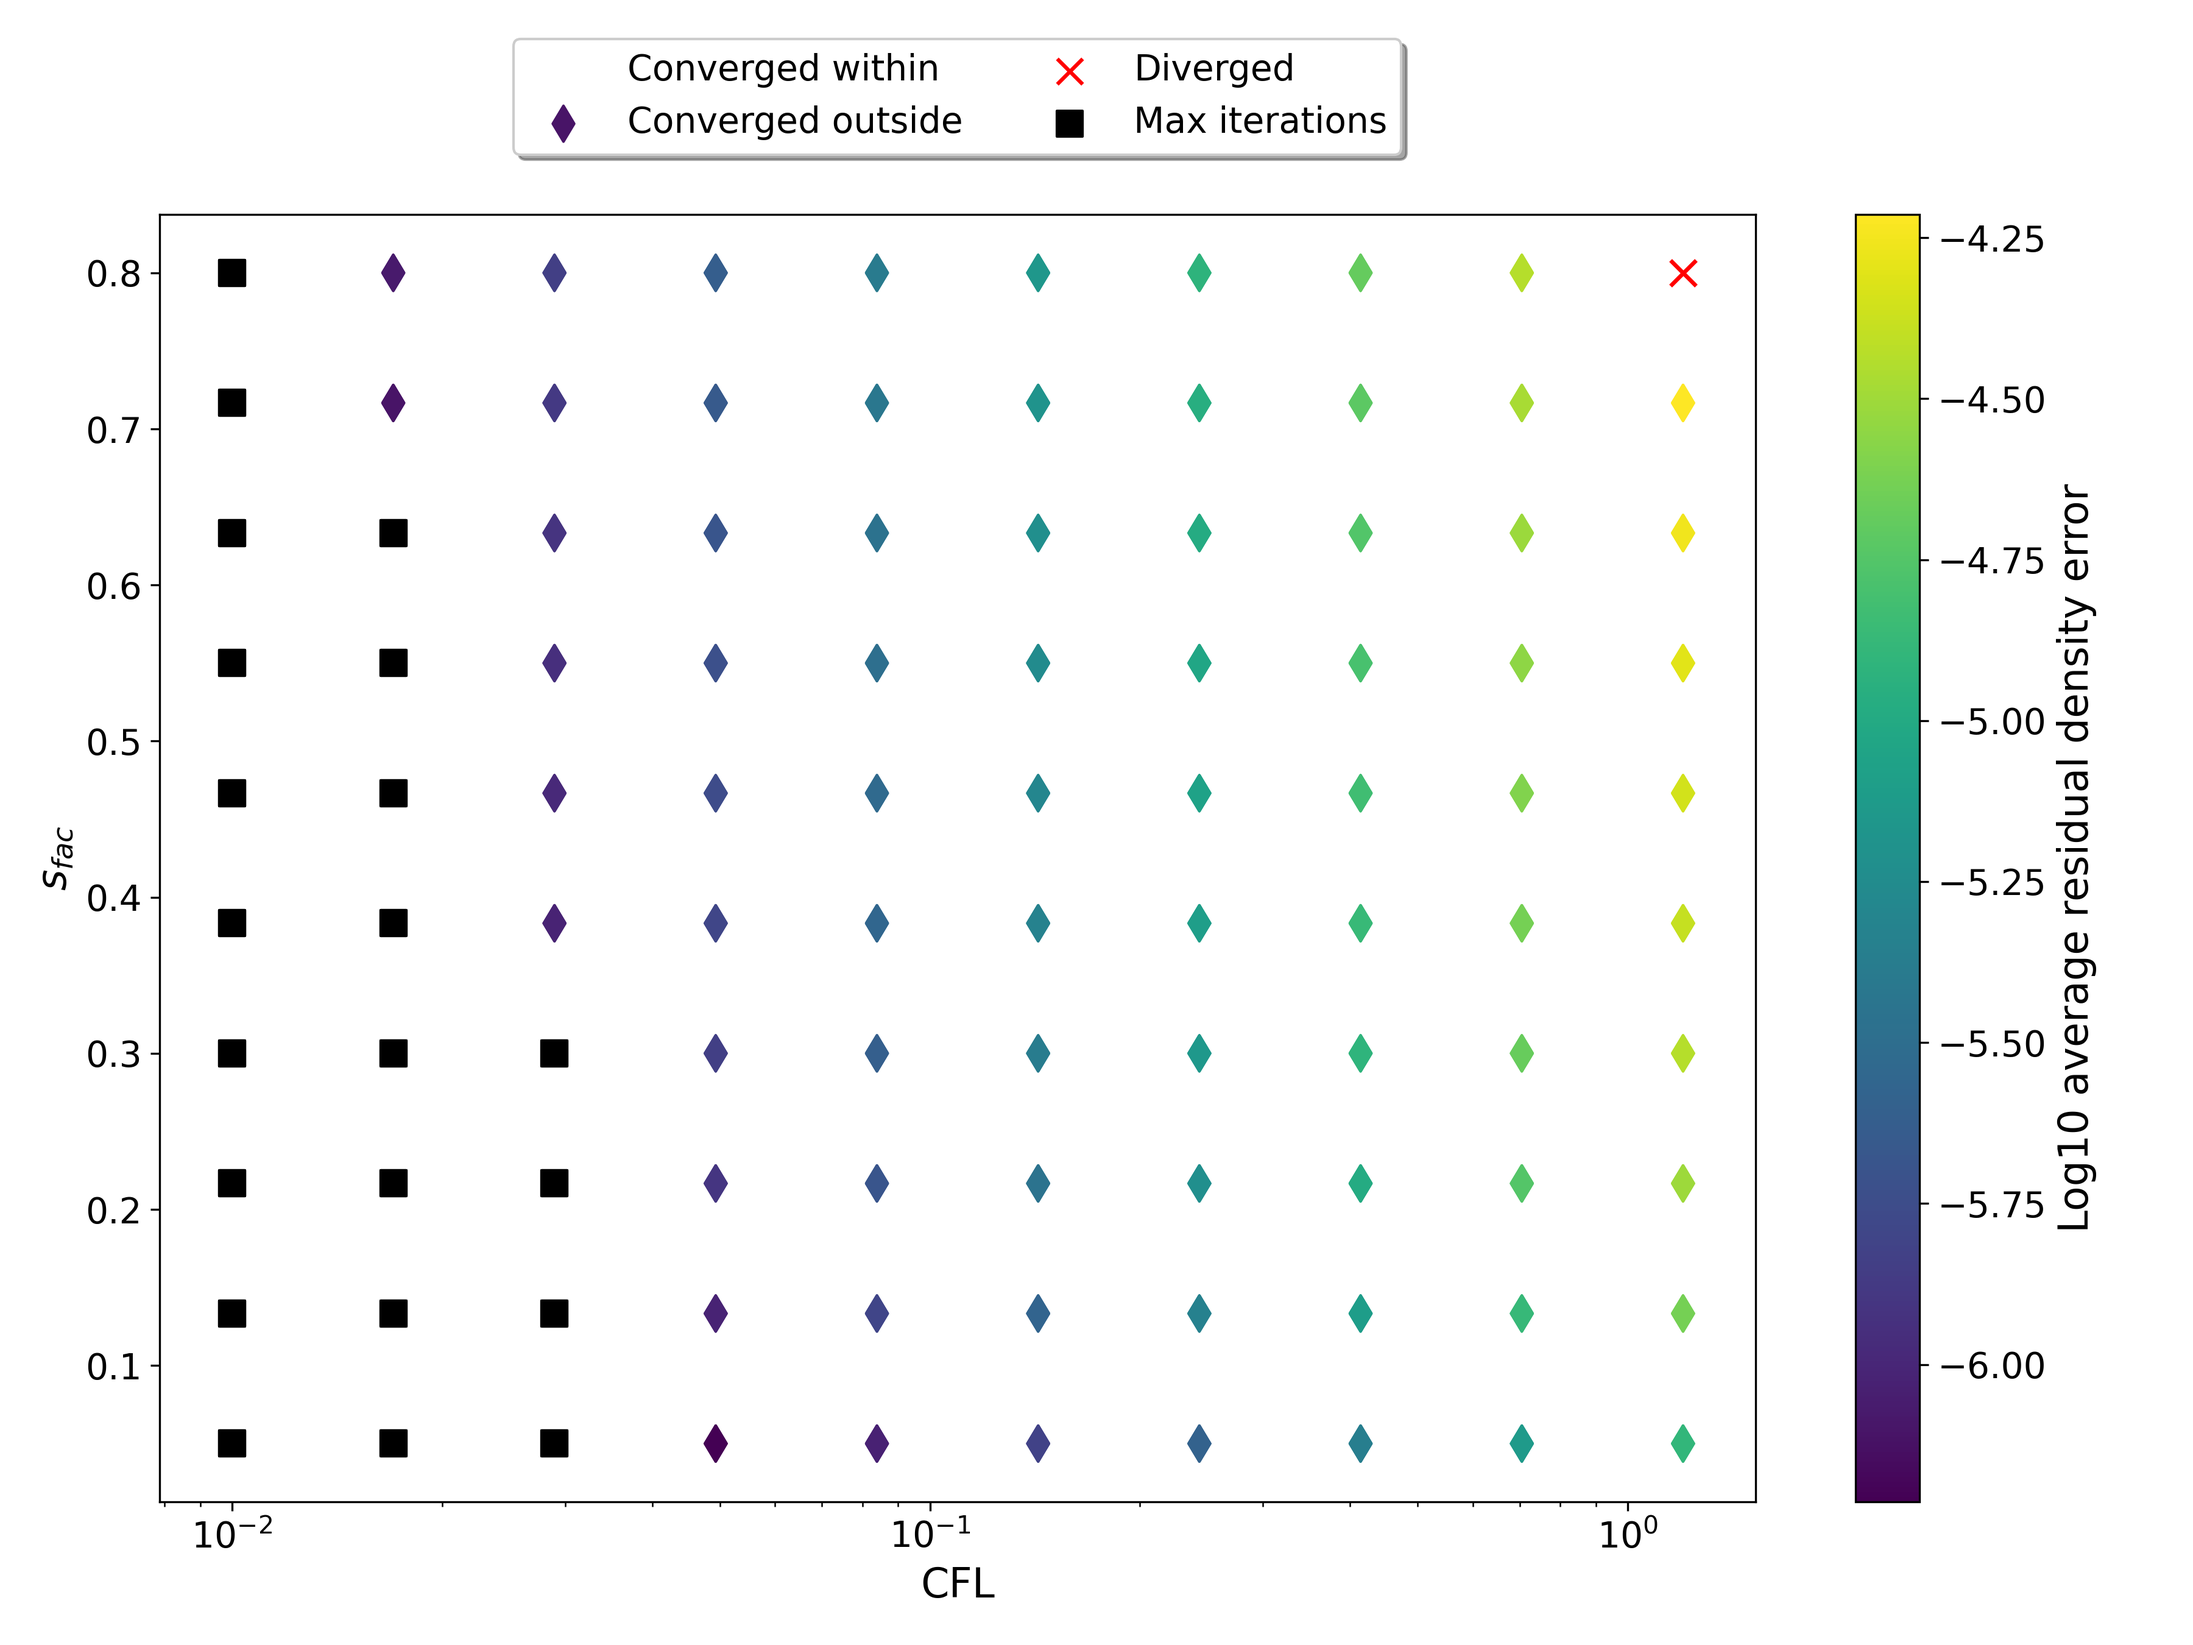
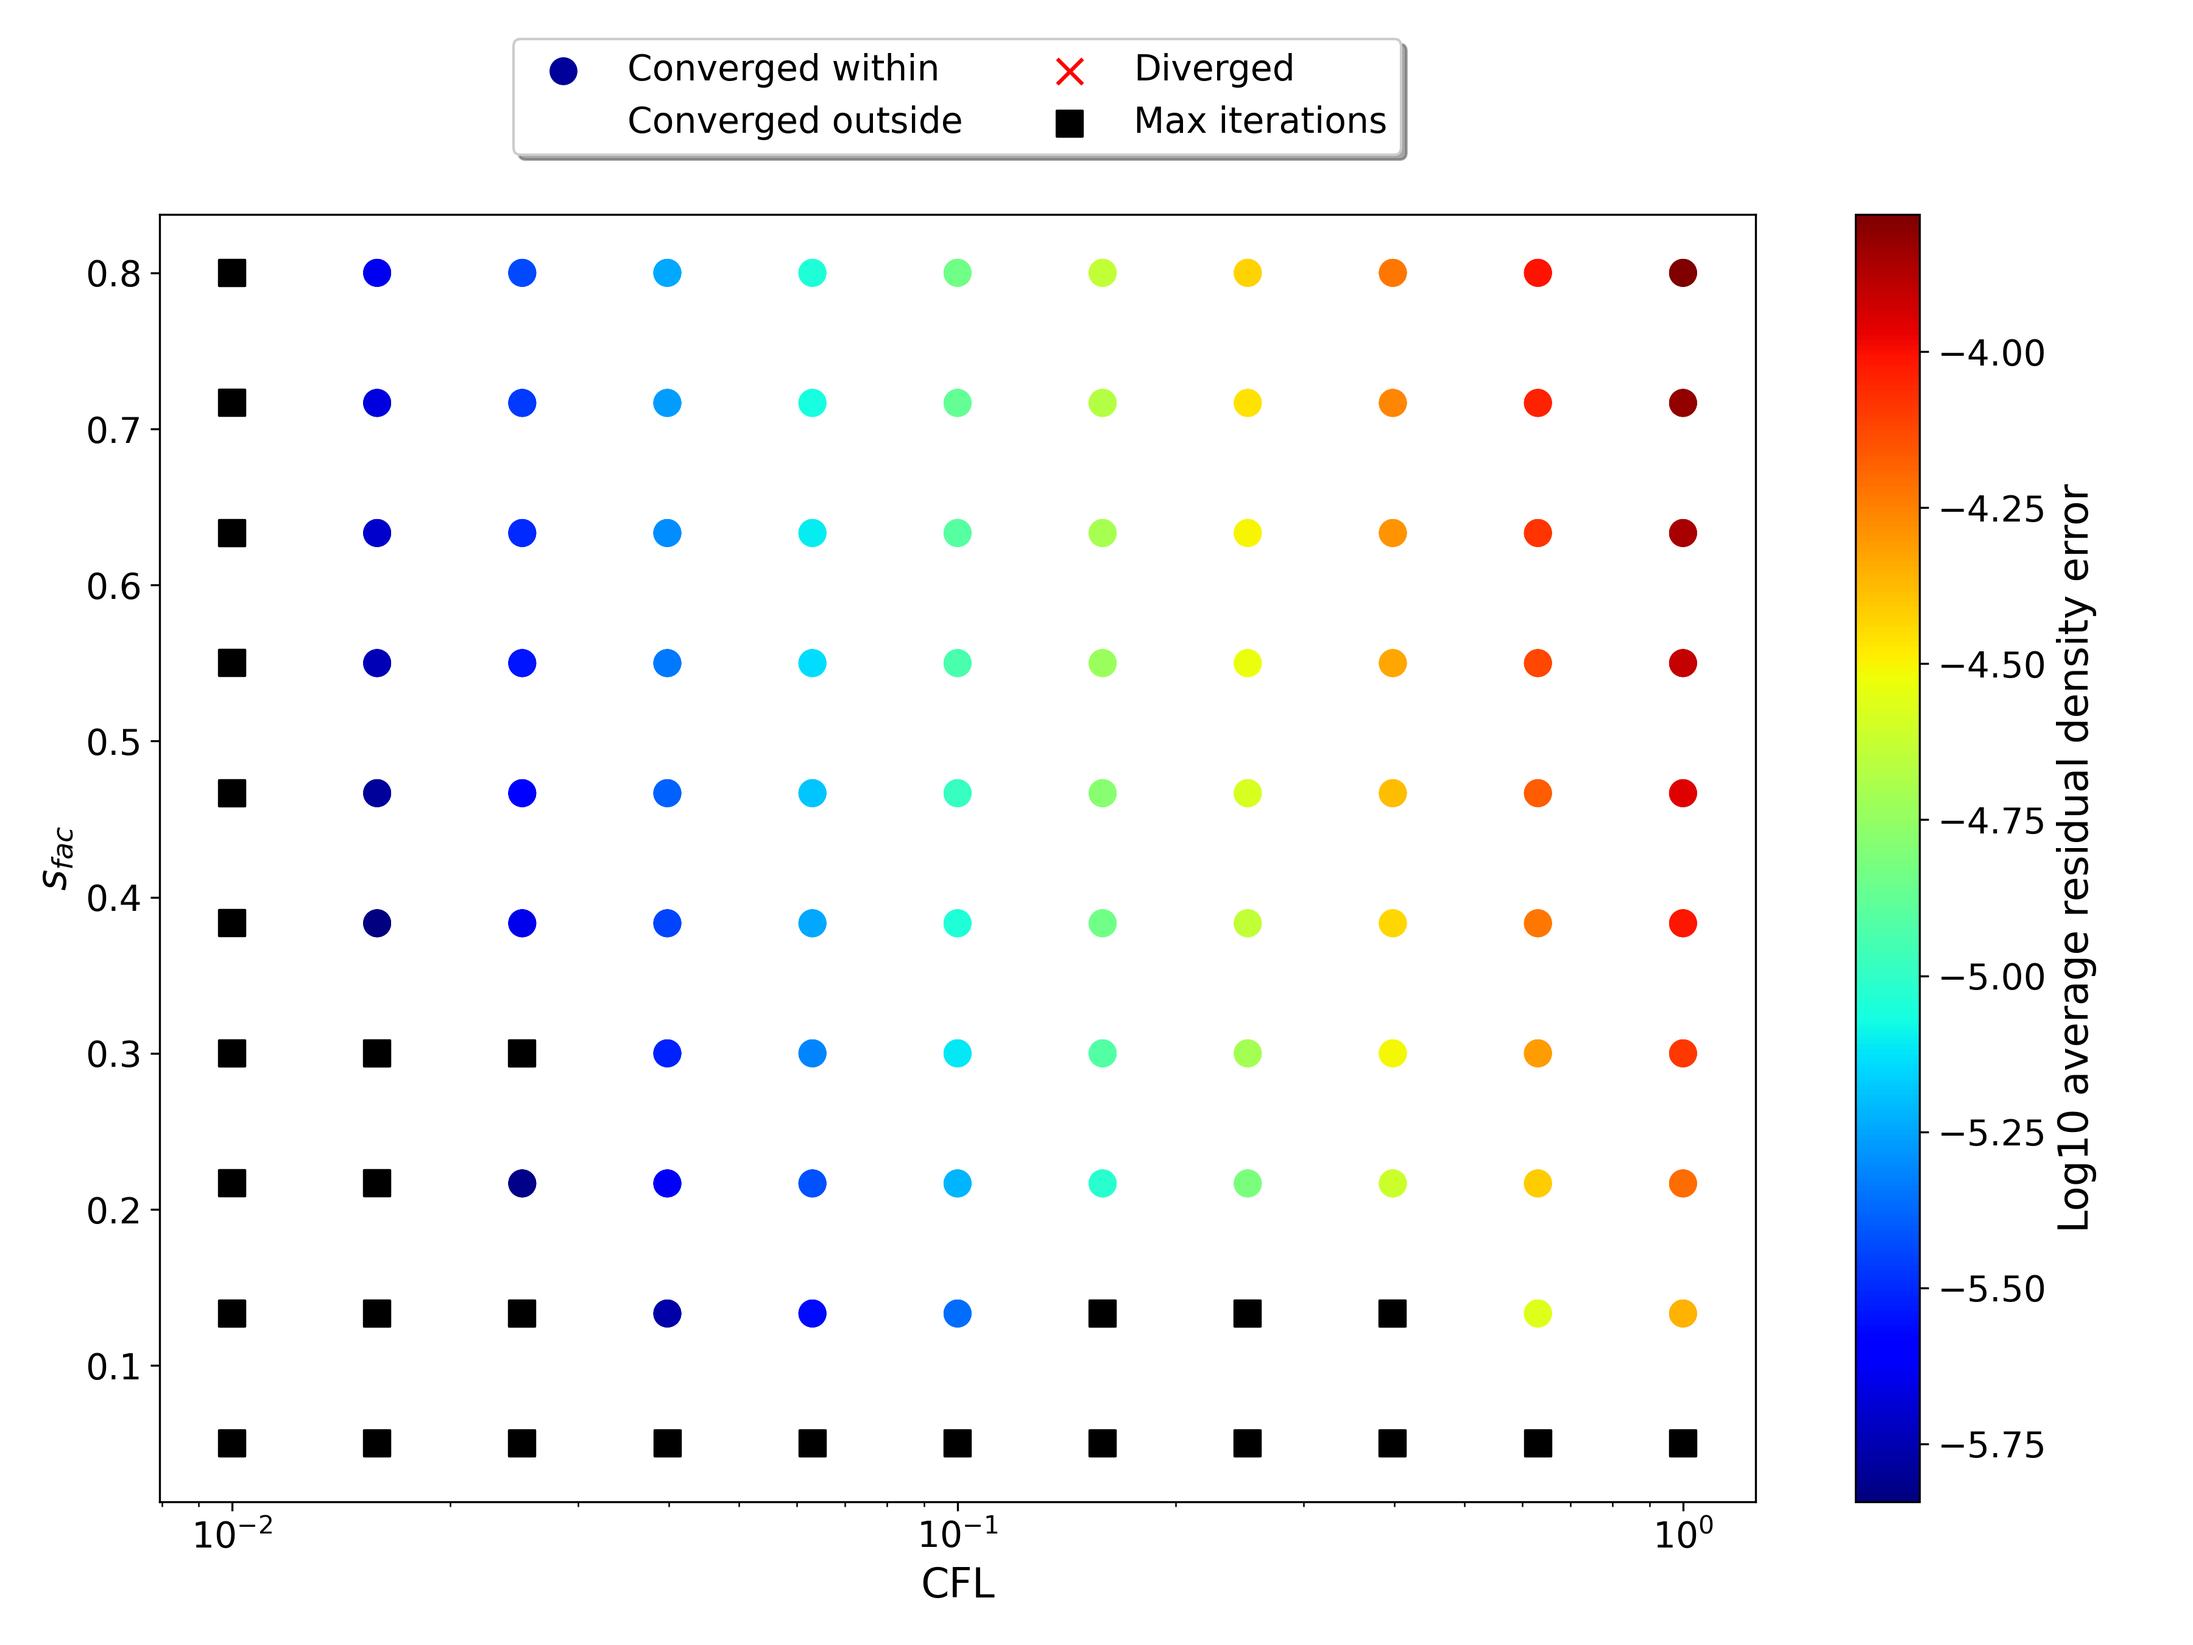
plot improvements

diff --git a/report/final/improvements.py b/report/final/improvements.py
@@ -397,7 +397,10 @@ def plot_smoothing_cfl_residual(av_template, data):
     # keep sfac = 0.8
 
     sfacs = np.linspace(0.05, 0.8, 10, endpoint = True)
-    cfls = np.logspace(-2, np.log10(1.2), 10, endpoint = True)
+    #cfls = np.logspace(-2, np.log10(1.5), 10, endpoint = True)
+    # rewrite with arrange
+    cfls = 10**np.arange(-2, np.log10(1.5), 0.2)
+    print(cfls)
 
     avs = []
     for cfl in cfls:
@@ -429,7 +432,7 @@ def plot_smoothing_cfl_residual(av_template, data):
         wspace=0.2
     )
 
-    ax.scatter(
+    conin = ax.scatter(
         df_converged_within['cfl'].to_numpy(),
         df_converged_within['sfac'].to_numpy(),
         c =  np.log10(df_converged_within[data]),
@@ -463,7 +466,12 @@ def plot_smoothing_cfl_residual(av_template, data):
         label = 'Max iterations',
         marker = 's'
     )
-    cbar = plt.colorbar(conout)
+
+    if len(df_converged_within) > len(df_converged_outside):
+        cbar = plt.colorbar(conin)
+    else:
+        cbar = plt.colorbar(conout)
+
     if data == 'dro_avg':
         cbar.set_label('Log10 average residual density error')
     elif data == 'dt':
@@ -483,14 +491,14 @@ def plot_smoothing_cfl_residual(av_template, data):
 
 if __name__ == "__main__":
 
-    plot_improvement_cfl()
+    #plot_improvement_cfl()
     #plot_improvement_ni()
 
     av_template = read_settings('cases/bump/input_bump.txt')
     av_template['fcorr'] = 0.8
     print(av_template)
-    #plot_smoothing_cfl_residual(av_template, 'dro_avg')
-    #plot_smoothing_cfl_residual(av_template, 'dt')
+    plot_smoothing_cfl_residual(av_template, 'dro_avg')
+    plot_smoothing_cfl_residual(av_template, 'dt')
 
     plt.show()
 
